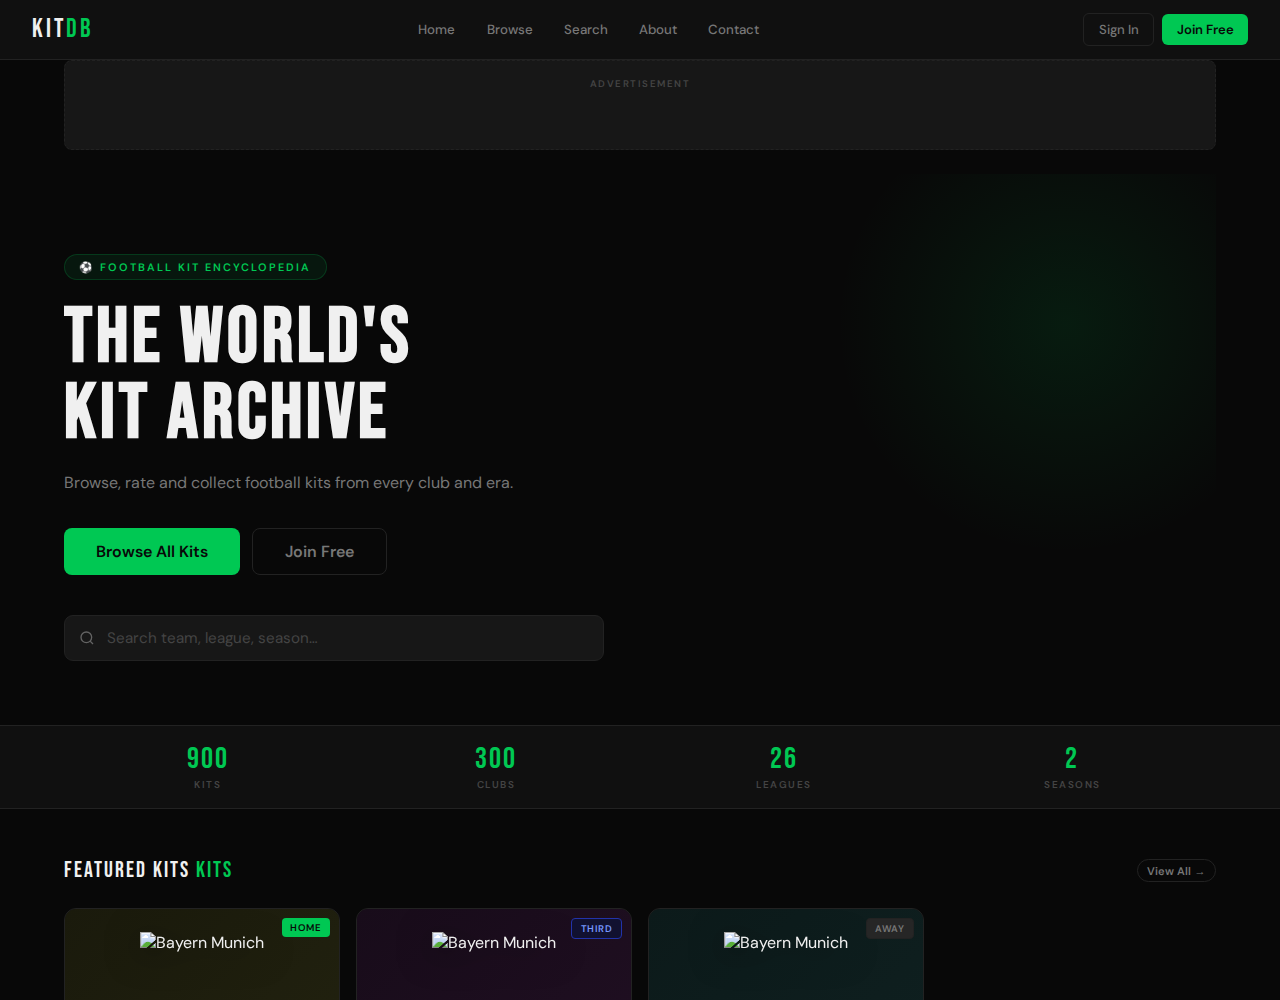
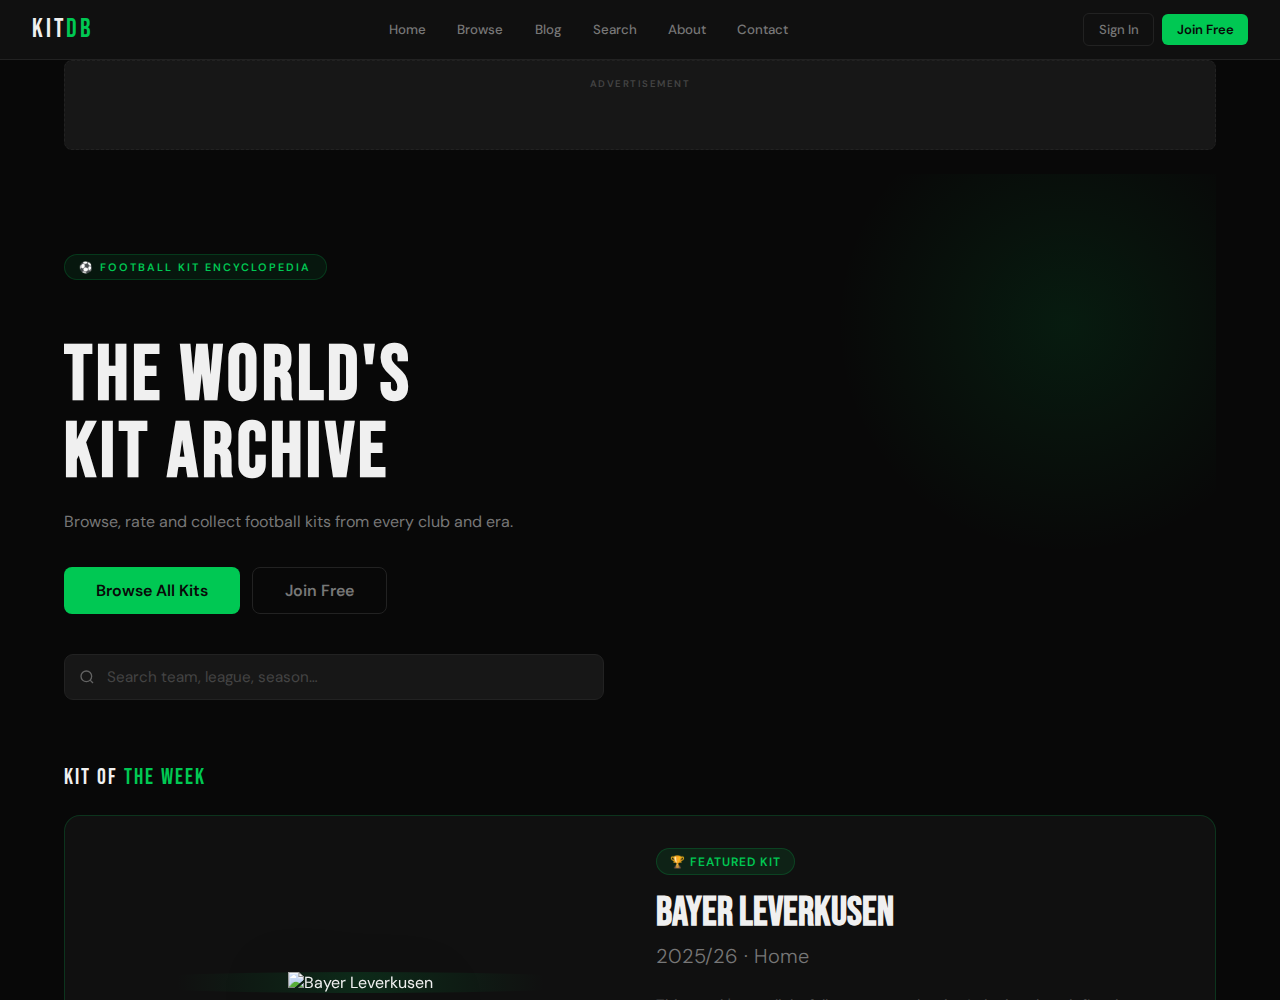
fix: Add loadKotw to homepage initialization and fix hero layout shift
- Appended `loadKotw()` to the `startupTasks` array in `frontend/index.html` to correctly fetch and render the "Kit of the Week" section on page load.
- Updated the CSS for `.hero h1` to remove the hacky `display: flex; flex-direction: column; justify-content: flex-end;` properties, replacing them with a cleaner `padding-top: 0.5em` approach to reserve the vertical space while maintaining standard text flow behavior.

diff --git a/frontend/index.html b/frontend/index.html
@@ -12,7 +12,7 @@
 .hero { padding: 5rem 0 4rem; position: relative; overflow: hidden; }
 .hero::before { content:''; position:absolute; right:-100px; top:-100px; width:500px; height:500px; border-radius:50%; background:radial-gradient(circle,rgba(0,200,83,.1),transparent 65%); pointer-events:none; }
 .hero-tag { display:inline-flex; align-items:center; gap:.4rem; background:var(--gf); border:1px solid var(--bdg); color:var(--g); font-size:.68rem; font-weight:700; letter-spacing:2px; text-transform:uppercase; padding:.3rem .9rem; border-radius:100px; margin-bottom:1.25rem; }
-.hero h1 { font-family:var(--fd); font-size:clamp(2.8rem,6vw,5rem); letter-spacing:4px; line-height:1; margin-bottom:1rem; min-height: 2em; display: flex; flex-direction: column; justify-content: flex-end; }
+.hero h1 { font-family:var(--fd); font-size:clamp(2.8rem,6vw,5rem); letter-spacing:4px; line-height:1; margin-bottom:1rem; min-height: 2em; padding-top: 0.5em; }
 .hero h1 em { color:var(--g); font-style:normal; }
 .hero p { color:var(--w3); font-size:1rem; max-width:480px; line-height:1.7; margin-bottom:2rem; }
 .hero-btns { display:flex; gap:.75rem; flex-wrap:wrap; margin-bottom:2.5rem; }
@@ -112,6 +112,16 @@
           <input class="search-input" type="text" placeholder="Search team, league, season…" id="hero-search" onkeydown="if(event.key==='Enter')window.location.href='/search.html?q='+encodeURIComponent(this.value)"/>
         </div>
       </div>
+    </div>
+  </div>
+
+<!-- KIT OF THE WEEK -->
+  <div class="container" id="kotw-wrap" style="margin-bottom: 3rem; display: none;">
+    <div class="section-head">
+      <span class="section-title">KIT OF <span>THE WEEK</span></span>
+    </div>
+    <div id="kotw-content">
+      <div class="spinner"></div>
     </div>
   </div>
 
@@ -281,6 +291,7 @@
     loadLatest(),
     loadTopRated()
   ];
+  startupTasks.push(loadKotw());
   await Promise.allSettled(startupTasks);
 
   await Promise.allSettled([
@@ -343,6 +354,33 @@ async function loadStats() {
   document.querySelectorAll('[id^="s-clubs-d-"]').forEach(el => el.textContent = clubsCount);
   document.querySelectorAll('[id^="s-leagues-d-"]').forEach(el => el.textContent = leaguesCount);
   document.querySelectorAll('[id^="s-seasons-d-"]').forEach(el => el.textContent = seasonsCount);
+}
+
+async function loadKotw() {
+  const { data } = await sb.from('kit_of_week').select('*, kits(*)').eq('is_active', true).limit(1).single();
+  const wrap = document.getElementById('kotw-wrap');
+  if (!data || !data.kits) {
+    wrap.style.display = 'none';
+    return;
+  }
+  wrap.style.display = 'block';
+  const k = data.kits;
+  const content = document.getElementById('kotw-content');
+  content.innerHTML = `
+    <div style="display:flex; gap:2rem; background:var(--s1); border:1px solid var(--bdg); border-radius:16px; padding:2rem; align-items:center; flex-wrap:wrap;">
+      <div style="flex:1; min-width:280px; text-align:center; position:relative;">
+        <div style="position:absolute; inset:0; background:radial-gradient(circle, rgba(0,200,83,0.15) 0%, transparent 70%); pointer-events:none; border-radius:50%;"></div>
+        ${k.image_url ? `<img src="${k.image_url}" alt="${k.team}" style="max-height:300px; object-fit:contain; filter:drop-shadow(0 20px 30px rgba(0,0,0,0.5)); position:relative; z-index:1;" loading="lazy"/>` : `<div style="font-size:6rem; opacity:0.2;">⚽</div>`}
+      </div>
+      <div style="flex:1; min-width:280px;">
+        <div style="display:inline-block; background:rgba(0,200,83,0.1); color:var(--g); padding:0.3rem 0.8rem; border-radius:100px; font-size:0.75rem; font-weight:700; letter-spacing:1px; margin-bottom:1rem; border:1px solid var(--bdg);">🏆 FEATURED KIT</div>
+        <h3 style="font-family:var(--fd); font-size:2.5rem; line-height:1.1; margin-bottom:0.5rem;">${k.team}</h3>
+        <div style="font-size:1.25rem; color:var(--w3); margin-bottom:1.5rem; font-weight:300;">${k.season} &middot; ${k.type}</div>
+        <p style="color:var(--w4); line-height:1.6; margin-bottom:2rem; font-size:0.95rem;">${data.description || 'This week\'s spotlight falls on a true classic. A design that defined an era and captured the imagination of fans worldwide.'}</p>
+        <a href="/kit.html?slug=${k.slug}" class="btn btn-g" style="padding:0.75rem 2rem;">View Full Details</a>
+      </div>
+    </div>
+  `;
 }
 
 async function loadFeatured(limit = 4) {

diff --git a/test_index_pw.js b/test_index_pw.js
@@ -7,8 +7,7 @@ const { chromium } = require('playwright');
   await page.goto('http://localhost:3000/index.html');
   await page.screenshot({ path: 'verification_initial.png' });
 
-  await page.waitForLoadState('networkidle');
-  await page.waitForTimeout(2000); // let db load
+  await page.waitForTimeout(3000); // let db load
 
   // Take screenshot
   await page.screenshot({ path: 'verification_loaded.png' });
